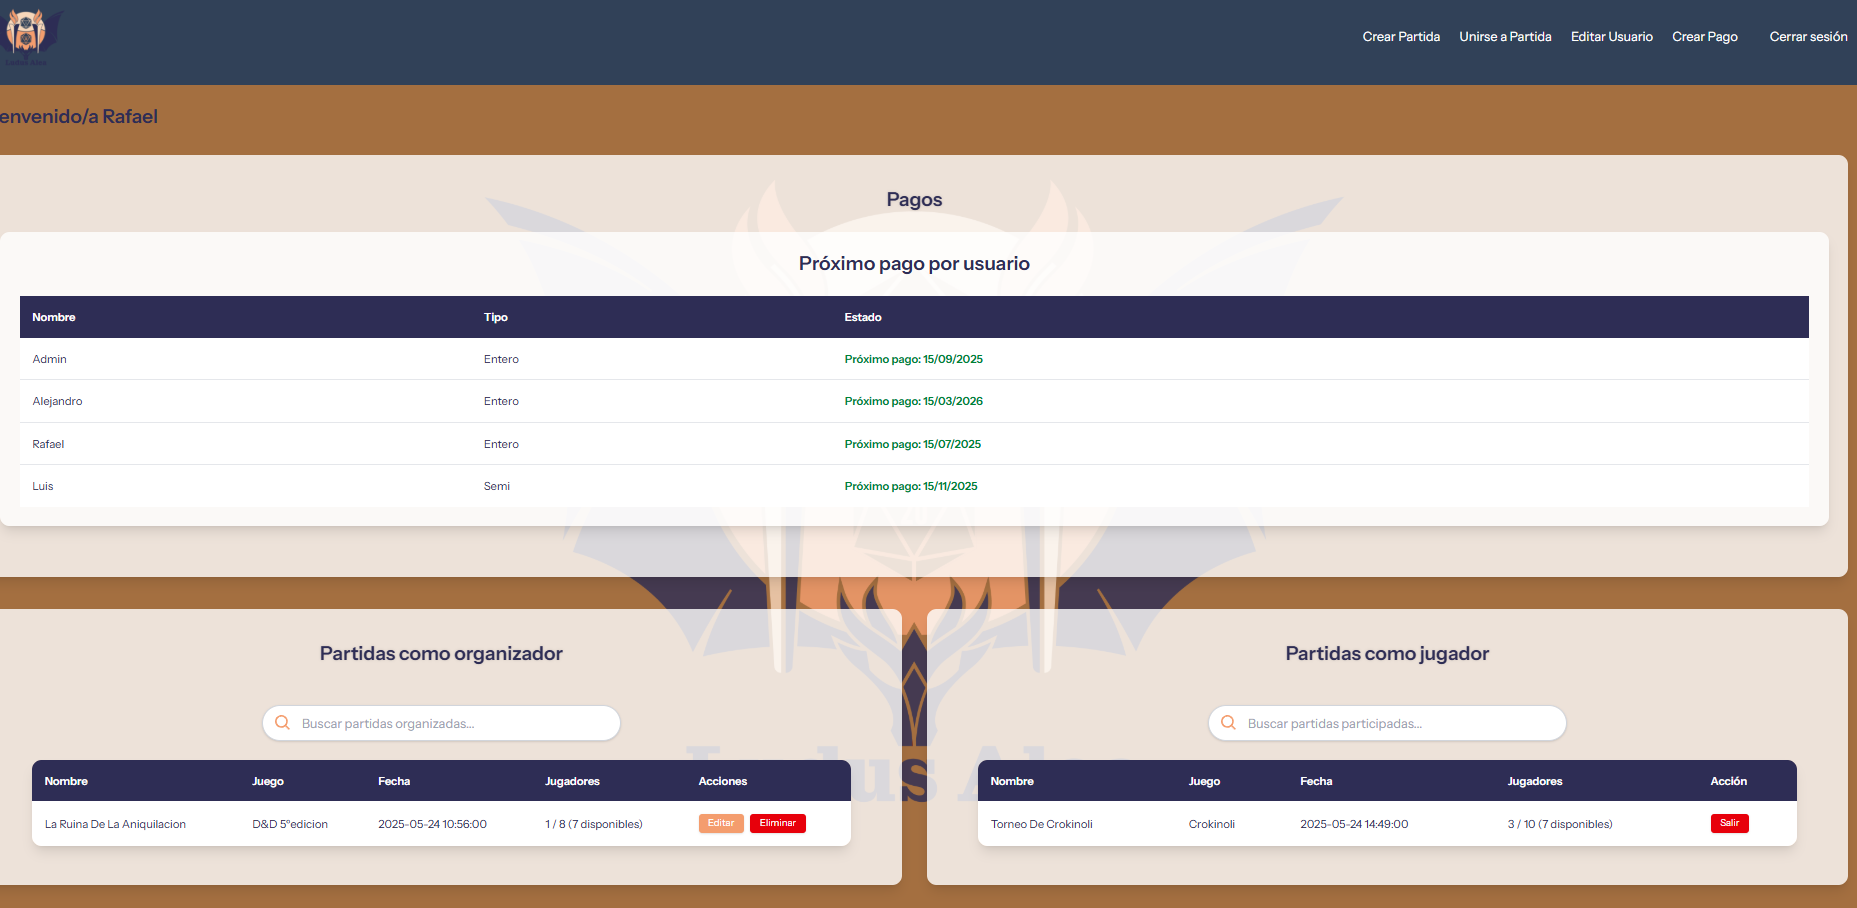
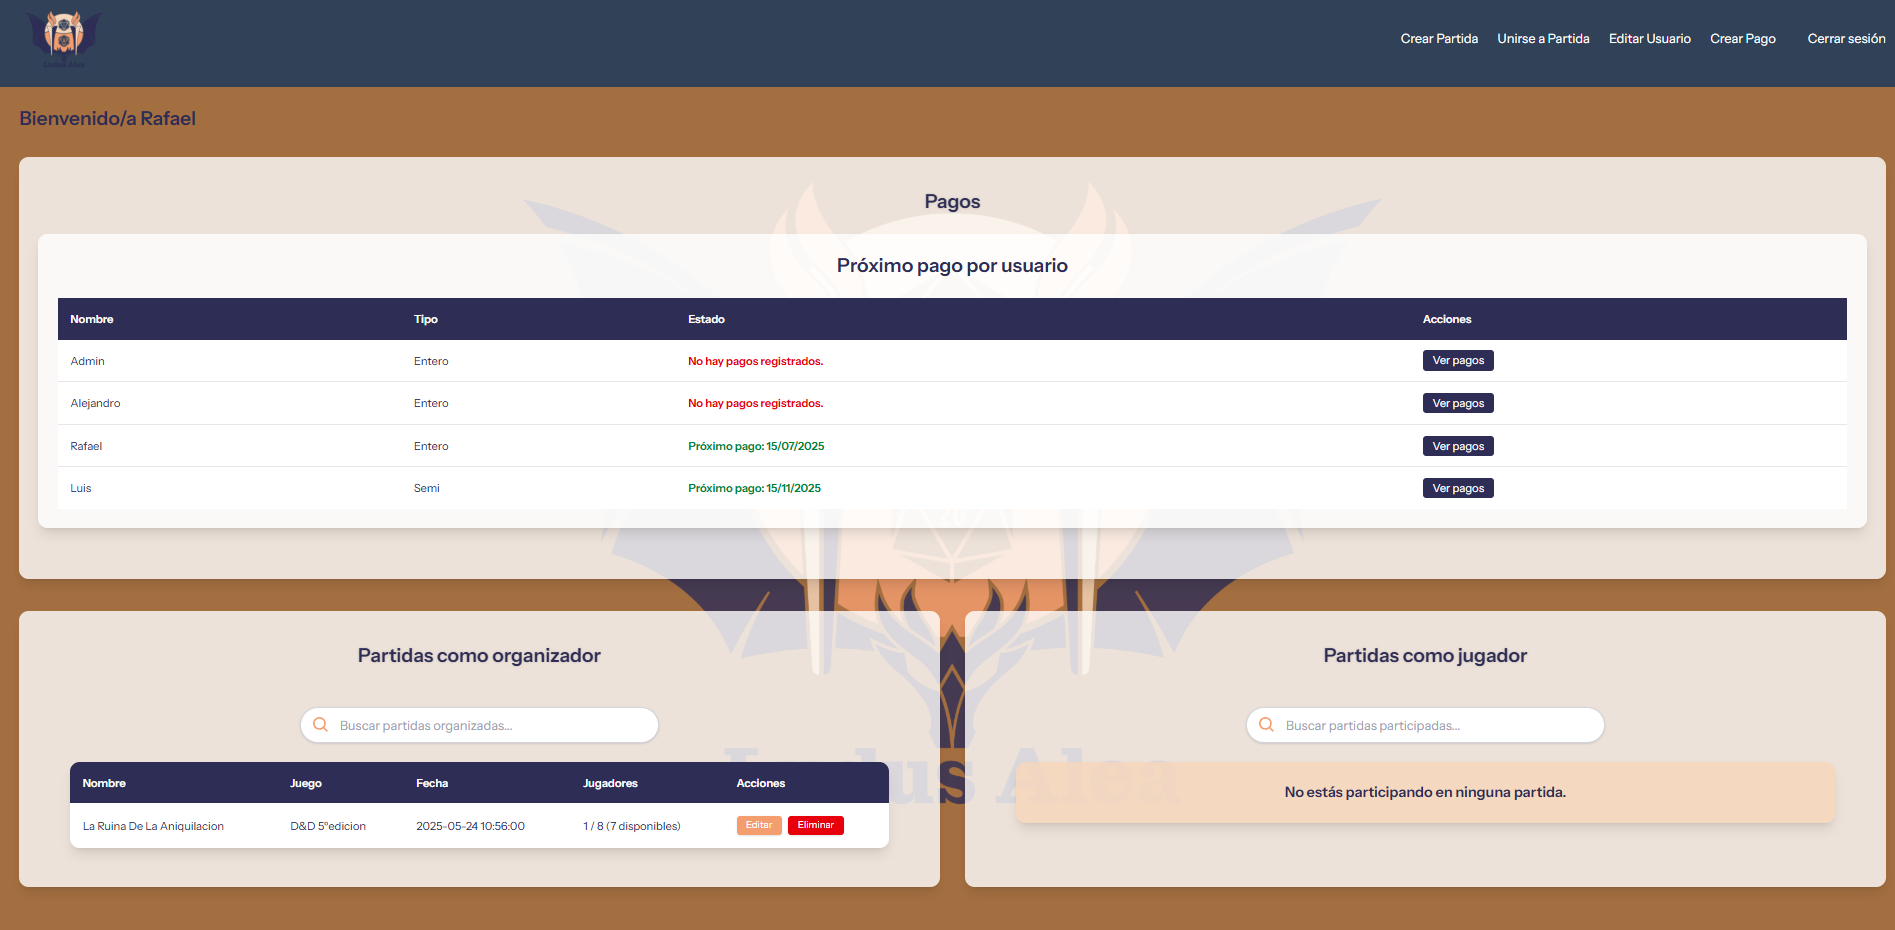
Eliminar pagos añadido

diff --git a/resources/views/pagos/por_cliente.blade.php b/resources/views/pagos/por_cliente.blade.php
@@ -1,0 +1,45 @@
+@extends('layout.app')
+
+@section('content')
+    <div class="bg-white/80 p-6 rounded-xl shadow-lg max-w-4xl mx-auto">
+        <h2 class="text-2xl font-bold mb-6 text-center text-[#2e2d55]">
+            Pagos realizados por {{ $user->nombre }}
+        </h2>
+
+        <table class="min-w-full table-auto text-sm mb-6">
+            <thead class="bg-[#2e2d55] text-white">
+                <tr>
+                    <th class="p-4 text-left">Fecha</th>
+                    <th class="p-4 text-left">Cantidad</th>
+                    <th class="p-4 text-left">Acciones</th>
+                </tr>
+            </thead>
+            <tbody class="bg-white divide-y divide-gray-200">
+                @forelse ($pagos as $pago)
+                    <tr class="hover:bg-[#f6d6ba]/60 transition">
+                        <td class="p-4">{{ \Carbon\Carbon::parse($pago->fecha)->format('d/m/Y') }}</td>
+                        <td class="p-4">{{ $pago->cantidad }} €</td>
+                        <td class="p-4">
+                            <form action="{{ route('pagos.destroy', $pago) }}" method="POST">
+                                @csrf
+                                @method('DELETE')
+                                <button type="submit"
+                                    class="bg-red-500 text-white px-3 py-1 rounded hover:bg-red-600 transition">
+                                    Eliminar
+                                </button>
+                            </form>
+                        </td>
+                    </tr>
+                @empty
+                    <tr>
+                        <td colspan="3" class="p-4 text-center text-gray-500">No hay pagos registrados.</td>
+                    </tr>
+                @endforelse
+            </tbody>
+        </table>
+
+        <div class="text-center">
+            <a href="{{ route('home') }}" class="text-[#2e2d55] underline hover:text-[#f49d6e]">Volver al inicio</a>
+        </div>
+    </div>
+@endsection

diff --git a/resources/views/pagos/index.blade.php b/resources/views/pagos/index.blade.php
@@ -7,6 +7,7 @@
                 <th class="p-4 text-left">Nombre</th>
                 <th class="p-4 text-left">Tipo</th>
                 <th class="p-4 text-left">Estado</th>
+                <th class="p-4 text-left">Acciones</th>
             </tr>
         </thead>
         <tbody class="bg-white divide-y divide-gray-200">
@@ -23,6 +24,17 @@
                             <span class="text-red-600 font-semibold">
                                 {{ $pago['mensaje'] }}
                             </span>
+                        @endif
+                    </td>
+                    <td class="p-4">
+                        @php
+                            $usuario = \App\Models\User::where('nombre', $pago['nombre'])->first();
+                        @endphp
+                        @if($usuario)
+                            <a href="{{ route('pagos.porCliente', $usuario->id) }}"
+                               class="bg-[#2e2d55] text-white px-3 py-1 rounded hover:bg-[#f49d6e] transition">
+                                Ver pagos
+                            </a>
                         @endif
                     </td>
                 </tr>

diff --git a/app/Http/Controllers/PagoController.php b/app/Http/Controllers/PagoController.php
@@ -75,4 +75,25 @@ class PagoController extends Controller
 
     return redirect()->route('home');
 }
+
+public function porCliente(User $user)
+{
+    if (!Gate::allows('viewAny', Pago::class)) {
+        return redirect()->route('acceso.denegado');
+    }
+
+    $pagos = $user->pagos()->orderBy('fecha', 'desc')->get();
+    return view('pagos.por_cliente', compact('user', 'pagos'));
+}
+
+public function destroy(Pago $pago)
+{
+    if (!Gate::allows('viewAny', Pago::class)) {
+        return redirect()->route('acceso.denegado');
+    }
+
+    $pago->delete();
+    return back();
+}
+
 }

diff --git a/routes/web.php b/routes/web.php
@@ -51,6 +51,8 @@ Route::post('/partidas/{partida}/leave', [PartidaController::class, 'leave'])->m
 
 Route::get('/pagos/create', [PagoController::class, 'create'])->middleware('can:create,App\Models\Pago')->name('pagos.create');
 Route::post('/pagos', [PagoController::class, 'store'])->middleware('can:create,App\Models\Pago')->name('pagos.store');
+Route::get('/pagos/cliente/{user}', [PagoController::class, 'porCliente'])->name('pagos.porCliente');
+Route::delete('/pagos/{pago}', [PagoController::class, 'destroy'])->name('pagos.destroy');
 
 
 Route::get('/acceso-denegado', function () {

diff --git a/README.md b/README.md
@@ -128,6 +128,10 @@ cd ludus-alea
 
     ![Crear Pago](readme-img/crearPago.png)
 
+    - Todos los pagos de un usuario 
+
+    ![Listar Pago](readme-img/pagosxcliente.png)
+
     3. **Vista como usuario Normal**
 
     - Home: 
